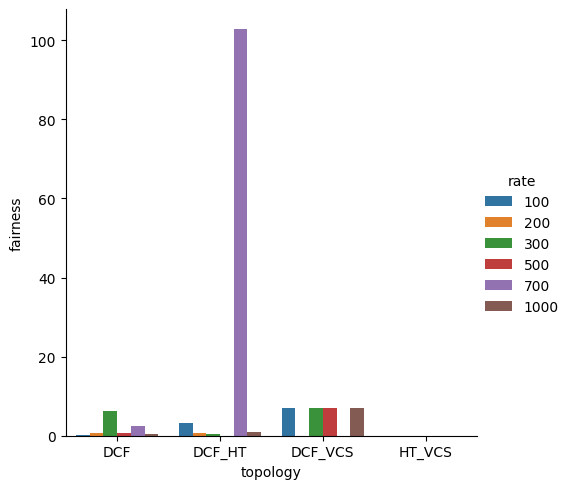
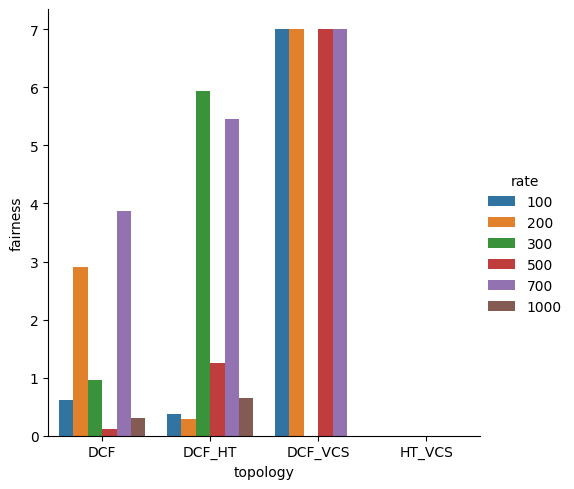
Fixed a few bugs, charts looking better

diff --git a/csma_ca.py b/csma_ca.py
@@ -61,7 +61,7 @@ class Station:
         self.transmission: int = 0
         self.collisions: int = 0
         self.cw: int = 0
-        self.sending: bool = False
+        self.waiting: bool = True
         self.awaiting_ack: bool = False
 
         # Stat counters:
@@ -72,7 +72,7 @@ class Station:
         self.tot_collisions: int = 0
 
     def double_cw(self):
-        self.sending = False  # forces resend of buffered frame
+        self.waiting = True  # forces resend of buffered frame
 
         if self.cw <= CW_MAX:
             self.cw = CW * 2**self.collisions
@@ -89,8 +89,8 @@ class Station:
             self.difs = DIFS
 
     def try_send(self, start):
-        if not self.sending:
-            self.sending = True
+        if self.waiting:
+            self.waiting = False
             self.transmission = self.buffer[0] / BITS_PER_SLOT + SIFS + ACK
 
             self.domain.nav = self.transmission
@@ -146,7 +146,8 @@ class AccessPoint:
             station.domain.nav = 0
             station.domain.transmissions -= 1
 
-            station.sending = station.awaiting_ack = False
+            station.waiting = True
+            station.awaiting_ack = False
             station.collisions = 0
             station.tot_trans_size += station.buffer.pop(0)
             station.tot_successes += 1
@@ -175,7 +176,7 @@ def virtual_carrier_sensing(station, access_pt):
 def simulation(rate: int, ht: bool, vcs: bool):
     print(f'Simulation (rate={rate}, ht={ht}, vcs={vcs})')
 
-    # Create all entities in the simulation:
+    # Create apps and stations:
     app_A = App()
     app_B = App()
     apps = [app_A, app_B]
@@ -189,32 +190,34 @@ def simulation(rate: int, ht: bool, vcs: bool):
 
     stations = [station_A, station_B]
 
-    # Connect the entities:
+    # Connect apps to their stations:
     app_A.station = station_A
     app_B.station = station_B
 
+    # Create access point and connect the stations to it:
     access_pt = AccessPoint(vcs=True) if vcs else AccessPoint()
 
     for station in stations:
         station.access_pt = access_pt
 
-    # Conditional to set up single domain or hidden terminals:
+    # Create hidden terminals or single domain:
     if ht:
         station_A.domain = CollisionDomain()
         station_B.domain = CollisionDomain()
         access_pt.domain = CollisionDomain()
     else:
-        station_A.domain = station_B.domain = access_pt.domain = \
-            CollisionDomain()
+        station_A.domain = \
+        station_B.domain = \
+        access_pt.domain = CollisionDomain()
 
     # Create app traffic:
     for app in apps:
         app.generate_traffic(rate)
 
-    # Set counters:
-    start = time.time()     # start time
-    end = start + SIM_TIME  # start time plus simulation time
-    slot = 0                # slot counter
+    # Create simulation counters:
+    start = time.time()
+    end = start + SIM_TIME
+    slot = 0
 
     print(f'Start time: {start}')
 
@@ -233,7 +236,7 @@ def simulation(rate: int, ht: bool, vcs: bool):
             if station.domain.transmissions > 1:
                 station.double_cw()
 
-            elif station.domain.transmissions == 1 and not station.sending:
+            elif station.domain.transmissions == 1 and station.waiting:
                 station.freeze()
 
             elif station.difs:
@@ -243,11 +246,11 @@ def simulation(rate: int, ht: bool, vcs: bool):
                 station.backoff -= 1
 
             elif station.awaiting_ack:
-                access_pt.try_ack(station)
-
                 if station.backoff == 0:
                     station.double_cw()
                     station.backoff += SIFS
+
+                access_pt.try_ack(station)
 
             elif any(station.buffer):
                 if station.vcs and station.domain.all_clear != station:
